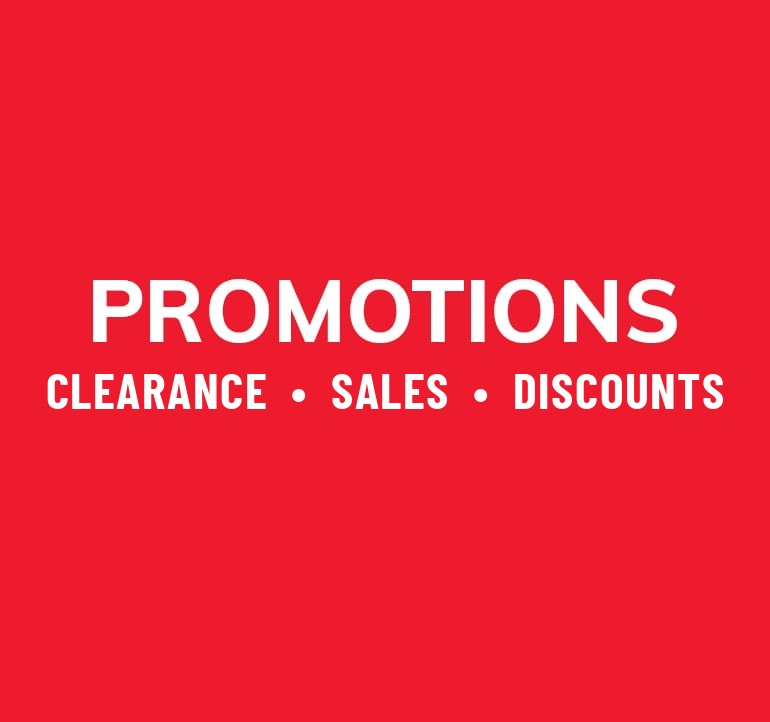
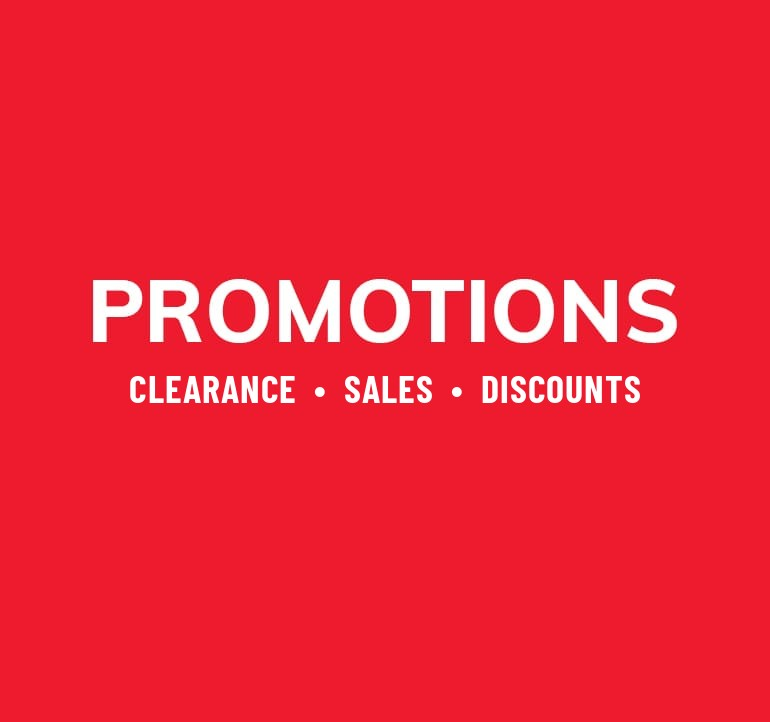
Promotions tile sub-line fits

Changed region(s): [[0.0623, 0.518, 0.9351, 0.5789]]

diff --git a/report/index.html b/report/index.html
@@ -37,7 +37,7 @@ code{background:var(--off);padding:1px 5px;border-radius:3px;font-size:13px}
 </div></div>
 <section data-panel="original">
 <h1 id="s0">signel.ca — what is broken on the original site</h1>
-<p>Compiled 2026-09-25. Every link below was fetched from the live site.</p>
+<p>Compiled 2026-09-28. Every link below was fetched from the live site.</p>
 <p>Open the page in the <strong>Where to check</strong> column and you will see the problem there.</p>
 <h2 id="s3">1. Download links that lead to a missing file</h2>
 <p>8 documents are linked from the site but return "not found".</p>
@@ -353,9 +353,9 @@ code{background:var(--off);padding:1px 5px;border-radius:3px;font-size:13px}
 </section>
 <section data-panel="new" hidden>
 <h1 id="s0">The new site — what is broken</h1>
-<p>Compiled 2026-09-25 from the build's own checks. Page addresses are on the new site.</p>
+<p>Compiled 2026-09-28 from the build's own checks. Page addresses are on the new site.</p>
 <h2 id="s2">Build checks (verify.js)</h2>
-<p class="ok">All 1853 pages pass: every product and SKU present, no broken internal links, no missing images, no French left, no dead buttons. Checked 2026-09-25.</p>
+<p class="ok">All 1853 pages pass: every product and SKU present, no broken internal links, no missing images, no French left, no dead buttons. Checked 2026-09-28.</p>
 <h2 id="s4">What a visitor sees (visual audit)</h2>
 <h3 id="s5">desktop (1440px): 37 problems</h3>
 <table><thead><tr><th>Page</th><th>Problem</th><th>Where on the page</th></tr></thead><tbody>

diff --git a/report/broken-links-on-signel-ca.md b/report/broken-links-on-signel-ca.md
@@ -1,6 +1,6 @@
 # signel.ca — what is broken on the original site
 
-Compiled 2026-09-25. Every link below was fetched from the live site.
+Compiled 2026-09-28. Every link below was fetched from the live site.
 Open the page in the **Where to check** column and you will see the problem there.
 
 ## 1. Download links that lead to a missing file
